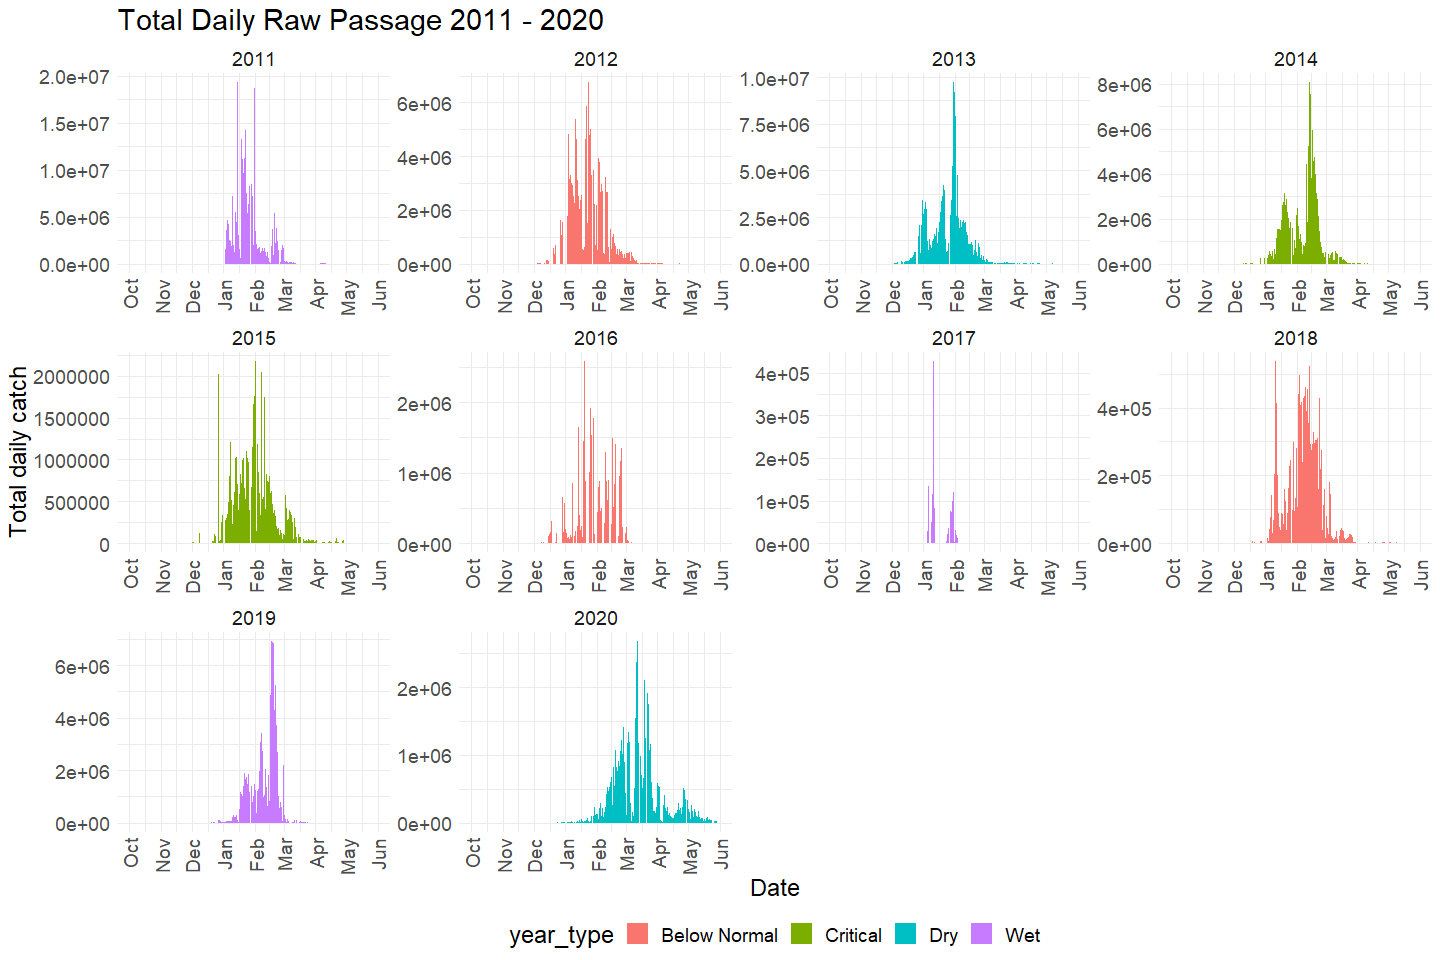
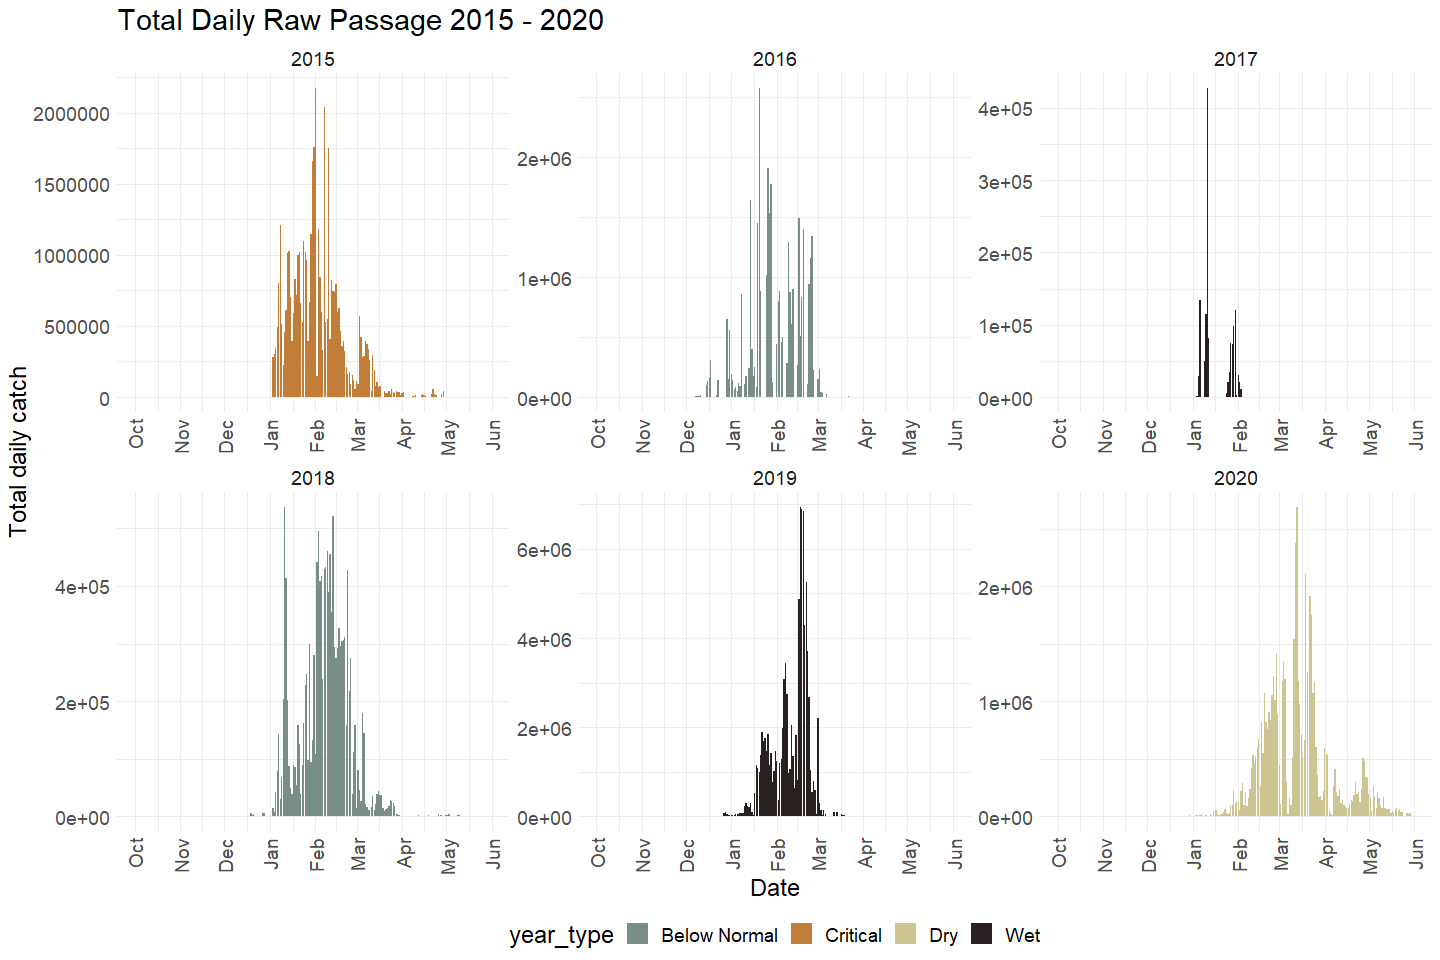
Addresses todos in feather RST effort

diff --git a/scripts/rst/feather-river/feather-rst-effort.md b/scripts/rst/feather-river/feather-rst-effort.md
@@ -196,6 +196,11 @@ cleaner_effort_data %>%
 
 ![](feather-rst-effort_files/figure-gfm/unnamed-chunk-7-1.png)<!-- -->
 
+``` r
+# All points where water temp = 0 degrees C occur in November or December and happen when trap is not in service or functioning
+zero_values <- cleaner_effort_data %>% filter(water_temp_c == 0)
+```
+
 **Numeric Summary of water\_temp\_c over Period of Record**
 
 ``` r
@@ -209,6 +214,8 @@ summary(cleaner_effort_data$water_temp_c)
 **NA and Unknown Values**
 
 -   11.7 % of values in the `water_temp_c` column are NA.
+-   315 of the NA values are in 2008 (maybe a funding issue?)
+-   Typically there are around 23 NA values in a year
 
 ### Variable: `turbidity_ntu`
 
@@ -241,7 +248,7 @@ cleaner_effort_data %>%
        y = "Average Daily Turbidity NTUs")  
 ```
 
-![](feather-rst-effort_files/figure-gfm/unnamed-chunk-9-1.png)<!-- -->
+![](feather-rst-effort_files/figure-gfm/unnamed-chunk-11-1.png)<!-- -->
 
 ``` r
 cleaner_effort_data %>% 
@@ -256,7 +263,10 @@ cleaner_effort_data %>%
         axis.text.x = element_text(angle = 90, vjust = 0.5, hjust=1)) 
 ```
 
-![](feather-rst-effort_files/figure-gfm/unnamed-chunk-10-1.png)<!-- -->
+![](feather-rst-effort_files/figure-gfm/unnamed-chunk-12-1.png)<!-- -->
+
+Notes: - 2006, 2017 were both wet years with low catch (see
+`feather-rst.md`) and high turbidity.
 
 **Numeric Summary of turbidity\_ntu over Period of Record**
 
@@ -271,6 +281,9 @@ summary(cleaner_effort_data$turbidity_ntu)
 **NA and Unknown Values**
 
 -   23 % of values in the `turbidity_ntu` column are NA.
+-   Early sampling years: 1998, 1999, 2000 have many NA values
+-   There are less NA in the most recent years with the exception of
+    2016
 
 ## Explore Categorical variables:
 
@@ -310,28 +323,37 @@ table(cleaner_effort_data$sub_site_name)
 Fix inconsistencies with spelling, capitalization, and abbreviations.
 
 ``` r
-cleaner_effort_data$sub_site_name <- gsub(" ", "_", tolower(cleaner_effort_data$sub_site_name))
+format_site_name <- function(string) {
+  clean <- str_replace_all(string, "[^[:alnum:]]", " ") %>% 
+    trimws() %>% 
+    stringr::str_squish() %>%
+    stringr::str_to_title()
+}
+```
+
+``` r
+cleaner_effort_data$sub_site_name <- format_site_name(cleaner_effort_data$sub_site_name)
 table(cleaner_effort_data$sub_site_name) 
 ```
 
     ## 
-    ##           #steep_riffle_rst            eye_riffle_north 
-    ##                        1012                        1995 
-    ##     eye_riffle_side_channel  gateway_main_400'_up_river 
-    ##                          77                          24 
-    ##               gateway_main1            gateway_rootball 
-    ##                         395                         178 
-    ## gateway_rootball_river_left              herringer_east 
-    ##                          32                         985 
-    ##        herringer_upper_west              herringer_west 
-    ##                         956                        1076 
-    ##                    live_oak                 shawns_east 
-    ##                         760                          23 
-    ##                 shawns_west        steep_riffle_10'_ext 
-    ##                          24                          83 
-    ##          steep_side_channel            sunset_east_bank 
+    ##            Eye Riffle North     Eye Riffle Side Channel 
+    ##                        1995                          77 
+    ##   Gateway Main 400 Up River               Gateway Main1 
+    ##                          24                         395 
+    ##            Gateway Rootball Gateway Rootball River Left 
+    ##                         178                          32 
+    ##              Herringer East        Herringer Upper West 
+    ##                         985                         956 
+    ##              Herringer West                    Live Oak 
+    ##                        1076                         760 
+    ##                 Shawns East                 Shawns West 
+    ##                          23                          24 
+    ##         Steep Riffle 10 Ext            Steep Riffle Rst 
+    ##                          83                        1012 
+    ##          Steep Side Channel            Sunset East Bank 
     ##                          38                         470 
-    ##            sunset_west_bank 
+    ##            Sunset West Bank 
     ##                         429
 
 **NA and Unknown Values**
@@ -348,7 +370,7 @@ cleaned_location <- location_details %>%
   mutate(degree = OSMscale::degree(Latitude, Longitude),
          latitude = degree$lat,
          longitude = degree$long,
-         sub_site_name = gsub(" ", "_", tolower(sub_site_name))) %>%
+         sub_site_name = format_site_name(sub_site_name)) %>%
   select(-degree, -Latitude, -Longitude) %>%
   glimpse()
 ```
@@ -356,7 +378,7 @@ cleaned_location <- location_details %>%
     ## Rows: 17
     ## Columns: 6
     ## $ site_name      <chr> "Steep Riffle", "Steep Riffle", "Steep Riffle", "Eye Ri~
-    ## $ sub_site_name  <chr> "#steep_riffle_rst", "steep_riffle_10'_ext", "steep_sid~
+    ## $ sub_site_name  <chr> "Steep Riffle Rst", "Steep Riffle 10 Ext", "Steep Side ~
     ## $ river_location <chr> "LFC", "LFC", "LFC", "LFC", "LFC", "HFC", "HFC", "HFC",~
     ## $ river_mile     <dbl> 61.0, 61.0, 61.0, 60.2, 60.2, 41.0, 46.0, 46.0, 46.0, 3~
     ## $ latitude       <dbl> 39.46210, 39.46210, 39.46201, 39.45660, 39.45623, 39.27~
@@ -380,23 +402,23 @@ table(cleaned_location$sub_site_name) # Values consistent with effort data (will
 ```
 
     ## 
-    ##           #steep_riffle_rst            eye_riffle_north 
+    ##            Eye Riffle North     Eye Riffle Side Channel 
     ##                           1                           1 
-    ##     eye_riffle_side_channel  gateway_main_400'_up_river 
+    ##   Gateway Main 400 Up River               Gateway Main1 
     ##                           1                           1 
-    ##               gateway_main1            gateway_rootball 
+    ##            Gateway Rootball Gateway Rootball River Left 
     ##                           1                           1 
-    ## gateway_rootball_river_left              herringer_east 
+    ##              Herringer East        Herringer Upper West 
     ##                           1                           1 
-    ##        herringer_upper_west              herringer_west 
+    ##              Herringer West                    Live Oak 
     ##                           1                           1 
-    ##                    live_oak                 shawns_east 
+    ##                 Shawns East                 Shawns West 
     ##                           1                           1 
-    ##                 shawns_west        steep_riffle_10'_ext 
+    ##         Steep Riffle 10 Ext            Steep Riffle Rst 
     ##                           1                           1 
-    ##          steep_side_channel            sunset_east_bank 
+    ##          Steep Side Channel            Sunset East Bank 
     ##                           1                           1 
-    ##            sunset_west_bank 
+    ##            Sunset West Bank 
     ##                           1
 
 ``` r
@@ -413,6 +435,8 @@ cleaner_effort_data <-  left_join(cleaner_effort_data, cleaned_location)
 ```
 
     ## Joining, by = "sub_site_name"
+
+Map of Feather River RST:
 
 ### Variable: `visit_type`
 
@@ -446,13 +470,18 @@ table(cleaner_effort_data$trap_functioning)
     ##           Trap stopped functioning 
     ##                                325
 
+Replace Not Recorded with NA
+
+``` r
+cleaner_effort_data$trap_functioning <- ifelse(cleaner_effort_data$trap_functioning == "Not recorded", NA, cleaner_effort_data$trap_functioning)
+```
+
 **NA and Unknown Values**
 
--   7.8 % of values in the `trap_functioning` column are listed as “Not
-    Recorded”.
+-   7.8 % of values in the `trap_functioning` column are listed as NA.
 
--   20.7 % of values in the `trap_functioning` column state that the
-    trap is not function at normal capacity.
+-   NA % of values in the `trap_functioning` column state that the trap
+    is not function at normal capacity.
 
 ### Variable: `fish_processed`
 
@@ -498,10 +527,10 @@ feather_rst_effort <- cleaner_effort_data %>%
     ## Columns: 13
     ## $ date             <date> 1997-12-22, 1997-12-23, 1997-12-26, 1997-12-27, 1997~
     ## $ site_name        <chr> "Eye Riffle", "Eye Riffle", "Eye Riffle", "Eye Riffle~
-    ## $ sub_site_name    <chr> "eye_riffle_north", "eye_riffle_north", "eye_riffle_n~
+    ## $ sub_site_name    <chr> "Eye Riffle North", "Eye Riffle North", "Eye Riffle N~
     ## $ visit_time       <dttm> 1997-12-22 10:40:00, 1997-12-23 11:40:00, 1997-12-26~
     ## $ visit_type       <chr> "Start trap & begin trapping", "End trapping", "Start~
-    ## $ trap_functioning <chr> "Trap not in service", "Not recorded", "Trap not in s~
+    ## $ trap_functioning <chr> "Trap not in service", NA, "Trap not in service", NA,~
     ## $ fish_processed   <chr> NA, "Processed fish", NA, "Processed fish", "Processe~
     ## $ water_temp_c     <dbl> NA, 8.888889, NA, 7.777778, 8.333333, 8.888889, 8.333~
     ## $ turbidity_ntu    <dbl> NA, NA, NA, NA, NA, NA, NA, NA, NA, NA, NA, NA, NA, N~

diff --git a/scripts/rst/feather-river/feather-rst.md b/scripts/rst/feather-river/feather-rst.md
@@ -168,7 +168,6 @@ cleaner_catch_data %>% filter(fork_length < 250) %>% # filter out 13 points so w
 ![](feather-rst_files/figure-gfm/unnamed-chunk-6-1.png)<!-- -->
 
 ``` r
-# TODO maybe do forklength by lifestage (or numeric summary of this) 
 cleaner_catch_data %>% 
   mutate(year = as.factor(year(date))) %>%
   ggplot(aes(x = fork_length, y = year)) + 
@@ -182,7 +181,6 @@ cleaner_catch_data %>%
 ![](feather-rst_files/figure-gfm/unnamed-chunk-7-1.png)<!-- -->
 
 ``` r
-# TODO maybe do forklength by lifestage (or numeric summary of this) 
 cleaner_catch_data %>% 
   mutate(year = as.factor(year(date))) %>%
   ggplot(aes(x = fork_length, y = lifestage)) + 
@@ -237,7 +235,7 @@ cleaner_catch_data %>%
 
 ``` r
 cleaner_catch_data %>% 
-  filter(year(date) > 2010, year(date) < 2021) %>%
+  filter(year(date) > 2014, year(date) < 2021) %>%
   mutate(water_year = ifelse(month(date) %in% 10:12, year(date) + 1, year(date))) %>% 
   left_join(sac_indices) %>%
   mutate(year = as.factor(year(date)),
@@ -254,10 +252,11 @@ cleaner_catch_data %>%
   theme(text = element_text(size = 18),
         axis.text.x = element_text(angle = 90, vjust = 0.5, hjust=1),
         legend.position = "bottom") + 
-  labs(title = "Total Daily Raw Passage 2011 - 2020",
+  labs(title = "Total Daily Raw Passage 2015 - 2020",
        y = "Total daily catch",
        x = "Date")+ 
-  facet_wrap(~water_year, scales = "free")
+  facet_wrap(~water_year, scales = "free") + 
+  scale_fill_manual(values = palette)
 ```
 
     ## Joining, by = "water_year"
